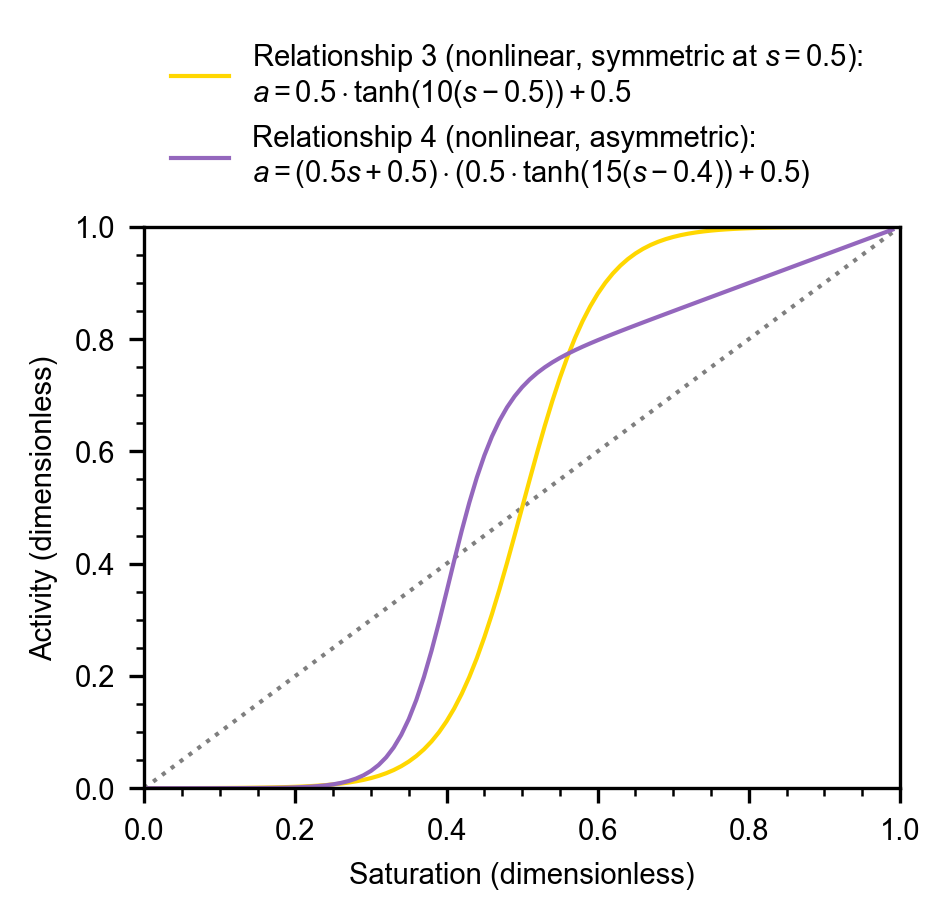
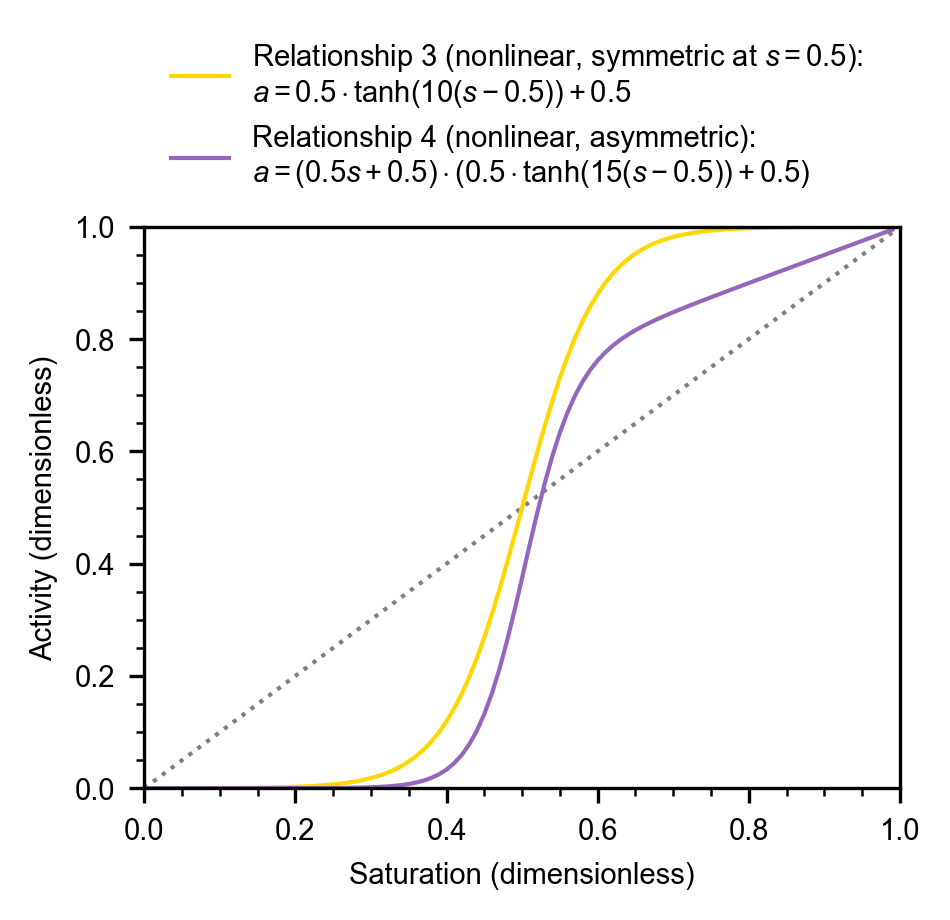
Update percolation figure

diff --git a/code/figure_percolation.py b/code/figure_percolation.py
@@ -16,8 +16,10 @@ def relationship3(s):
     return 0.5 * np.tanh(10 * (s - 0.5)) + 0.5
 
 def relationship4(s):
+    # a = (0.5·s +0.5)·(0.5·tanh(15·(s −0.5))+0.5)
+    # Note a typo in Kupper Figure 5, which has the below relationship:
     # a = (0.5·s +0.5)·(0.5·tanh(15·(s −0.4))+0.5)
-    return (0.5 * s + 0.5) * (0.5 * np.tanh(15 * (s - 0.4)) + 0.5)
+    return (0.5 * s + 0.5) * (0.5 * np.tanh(15 * (s - 0.5)) + 0.5)
 
 # Generate fake data
 saturation = np.arange(0, 1, 0.01)
@@ -49,7 +51,7 @@ ax.plot(
     activity4,
     color="tab:purple",
     label="Relationship 4 (nonlinear, asymmetric):\n" + \
-        r"$a = (0.5s + 0.5)\cdot(0.5\cdot\tanh(15(s - 0.4)) + 0.5)$",
+        r"$a = (0.5s + 0.5)\cdot(0.5\cdot\tanh(15(s - 0.5)) + 0.5)$",
 )
 
 # Set axes labels
